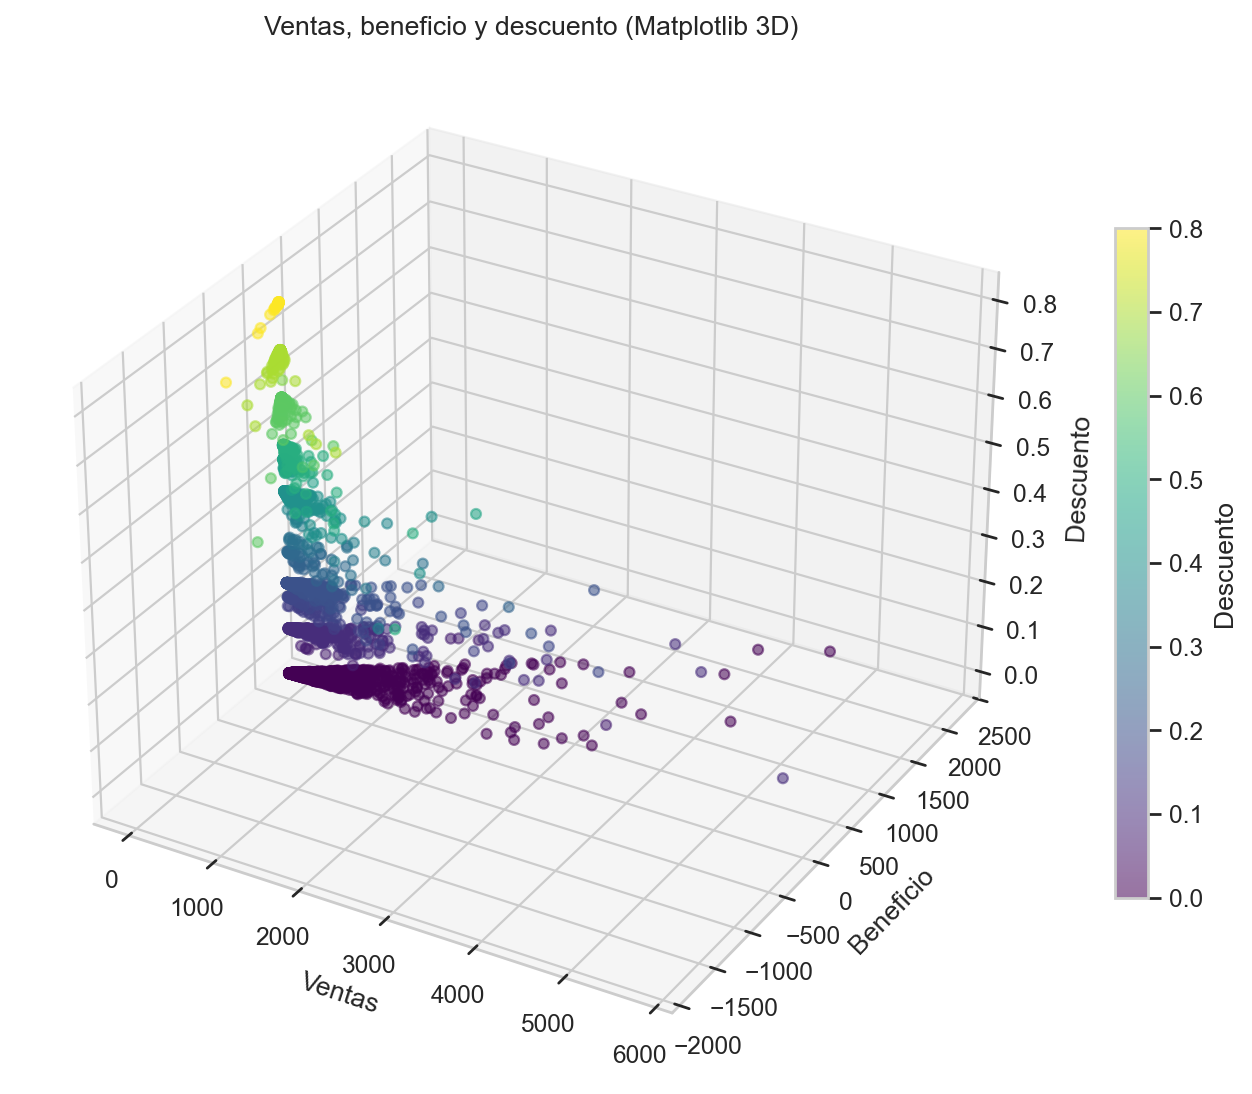
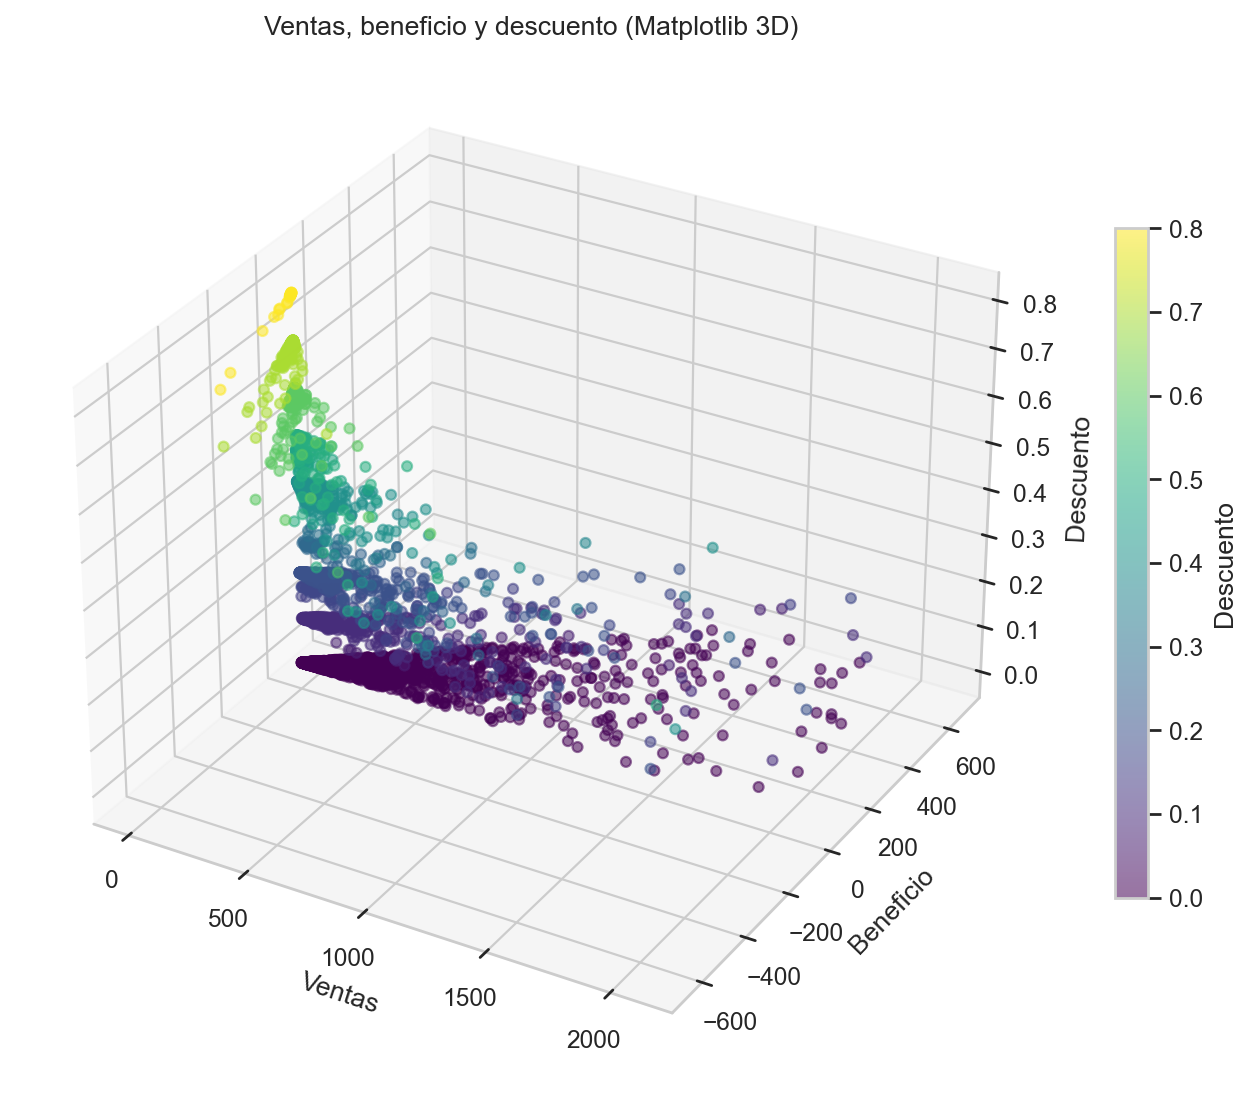
Completa visualización multivariante en 2D

diff --git a/visualizacion_superstore.py b/visualizacion_superstore.py
@@ -15,18 +15,20 @@ ARCHIVO_DATOS = Path("superstore_dataset2012.csv")
 ARCHIVO_SUBPLOTS = Path("visualizaciones_superstore.png")
 ARCHIVO_HEATMAP = Path("heatmap_correlaciones.png")
 ARCHIVO_SCATTER_3D = Path("scatter_3d_ventas_beneficio_descuento.png")
+ARCHIVO_SCATTER_2D = Path("scatter_2d_multivariante.png")
 
 
 def cargar_y_preparar_datos(ruta):
     """Carga el CSV, convierte fechas y comprueba los campos necesarios."""
     datos = pd.read_csv(ruta)
     columnas_requeridas = {
-        "Order Date", "Category", "Sales", "Profit", "Quantity", "Discount"
+        "Order Date", "Ship Date", "Category", "Sales", "Profit", "Quantity", "Discount"
     }
     faltantes = columnas_requeridas - set(datos.columns)
     if faltantes:
         raise ValueError(f"Faltan columnas necesarias: {sorted(faltantes)}")
 
+    # El CSV expresa las fechas en formato día/mes/año, por ello se usa dayfirst=True.
     datos["Order Date"] = pd.to_datetime(datos["Order Date"], dayfirst=True, errors="coerce")
     datos["Ship Date"] = pd.to_datetime(datos["Ship Date"], dayfirst=True, errors="coerce")
     datos = datos.dropna(subset=["Order Date", "Category", "Sales", "Profit"])
@@ -54,6 +56,7 @@ def crear_visualizaciones(datos):
     ejes[0, 1].tick_params(axis="x", rotation=12)
     limite_beneficio = datos["Profit"].abs().quantile(0.98)
     ejes[0, 1].set_ylim(-limite_beneficio, limite_beneficio)
+    ejes[0, 1].axhline(0, color="#333333", linewidth=0.8)
 
     # Matplotlib bivariante: muestra la relación entre ventas y beneficio por pedido.
     colores = np.where(datos["Profit"] >= 0, "#0f766e", "#b91c1c")
@@ -64,7 +67,10 @@ def crear_visualizaciones(datos):
     ejes[1, 0].set_ylabel("Beneficio")
 
     # Seaborn bivariante: resume los ingresos medios de cada categoría.
-    sns.barplot(data=datos, x="Category", y="Sales", estimator="mean", errorbar=None, ax=ejes[1, 1])
+    sns.barplot(
+        data=datos, x="Category", y="Sales", estimator="mean",
+        errorbar=("ci", 95), capsize=0.12, ax=ejes[1, 1]
+    )
     ejes[1, 1].set_title("Venta media por categoría (Seaborn)")
     ejes[1, 1].set_xlabel("Categoría")
     ejes[1, 1].set_ylabel("Ventas medias")
@@ -91,9 +97,15 @@ def crear_scatter_3d(datos):
     """Crea un scatter multivariante de Matplotlib para ventas, beneficio y descuento."""
     fig = plt.figure(figsize=(9, 7))
     eje = fig.add_subplot(111, projection="3d")
+    limite_ventas = datos["Sales"].quantile(0.99)
+    limite_beneficio = datos["Profit"].abs().quantile(0.99)
+    datos_visibles = datos.loc[
+        (datos["Sales"] <= limite_ventas)
+        & (datos["Profit"].abs() <= limite_beneficio)
+    ]
     puntos = eje.scatter(
-        datos["Sales"], datos["Profit"], datos["Discount"],
-        c=datos["Discount"], cmap="viridis", alpha=0.55, s=20
+        datos_visibles["Sales"], datos_visibles["Profit"], datos_visibles["Discount"],
+        c=datos_visibles["Discount"], cmap="viridis", alpha=0.55, s=20
     )
     eje.set_title("Ventas, beneficio y descuento (Matplotlib 3D)")
     eje.set_xlabel("Ventas")
@@ -105,12 +117,38 @@ def crear_scatter_3d(datos):
     plt.close(fig)
 
 
+def crear_scatter_multivariante_2d(datos):
+    """Relaciona ventas y beneficio codificando categoría y cantidad en un plano 2D."""
+    limite_ventas = datos["Sales"].quantile(0.99)
+    limite_beneficio = datos["Profit"].abs().quantile(0.99)
+    datos_visibles = datos.loc[
+        (datos["Sales"] <= limite_ventas)
+        & (datos["Profit"].abs() <= limite_beneficio)
+    ]
+    colores = {"Furniture": "#0057b8", "Office Supplies": "#0f766e", "Technology": "#b45309"}
+    fig, eje = plt.subplots(figsize=(9, 7))
+    for categoria, grupo in datos_visibles.groupby("Category"):
+        eje.scatter(
+            grupo["Sales"], grupo["Profit"], s=grupo["Quantity"] * 18,
+            color=colores.get(categoria, "#6b7280"), alpha=0.5, label=categoria
+        )
+    eje.axhline(0, color="#333333", linewidth=0.8)
+    eje.set_title("Ventas y beneficio por categoría y cantidad (Matplotlib 2D)")
+    eje.set_xlabel("Ventas")
+    eje.set_ylabel("Beneficio")
+    eje.legend(title="Categoría")
+    fig.tight_layout()
+    fig.savefig(ARCHIVO_SCATTER_2D, dpi=160, bbox_inches="tight")
+    plt.close(fig)
+
+
 def main():
     """Ejecuta la preparación, análisis descriptivo y generación de gráficos."""
     datos = cargar_y_preparar_datos(ARCHIVO_DATOS)
     crear_visualizaciones(datos)
     crear_heatmap(datos)
     crear_scatter_3d(datos)
+    crear_scatter_multivariante_2d(datos)
 
     print(f"Filas analizadas: {len(datos)}")
     print(f"Nulos restantes en columnas usadas: {datos[['Order Date', 'Category', 'Sales', 'Profit']].isna().sum().sum()}")
@@ -119,6 +157,7 @@ def main():
     print(f"Figura de subplots guardada: {ARCHIVO_SUBPLOTS}")
     print(f"Heatmap guardado: {ARCHIVO_HEATMAP}")
     print(f"Scatter 3D guardado: {ARCHIVO_SCATTER_3D}")
+    print(f"Scatter 2D multivariante guardado: {ARCHIVO_SCATTER_2D}")
 
 
 if __name__ == "__main__":
